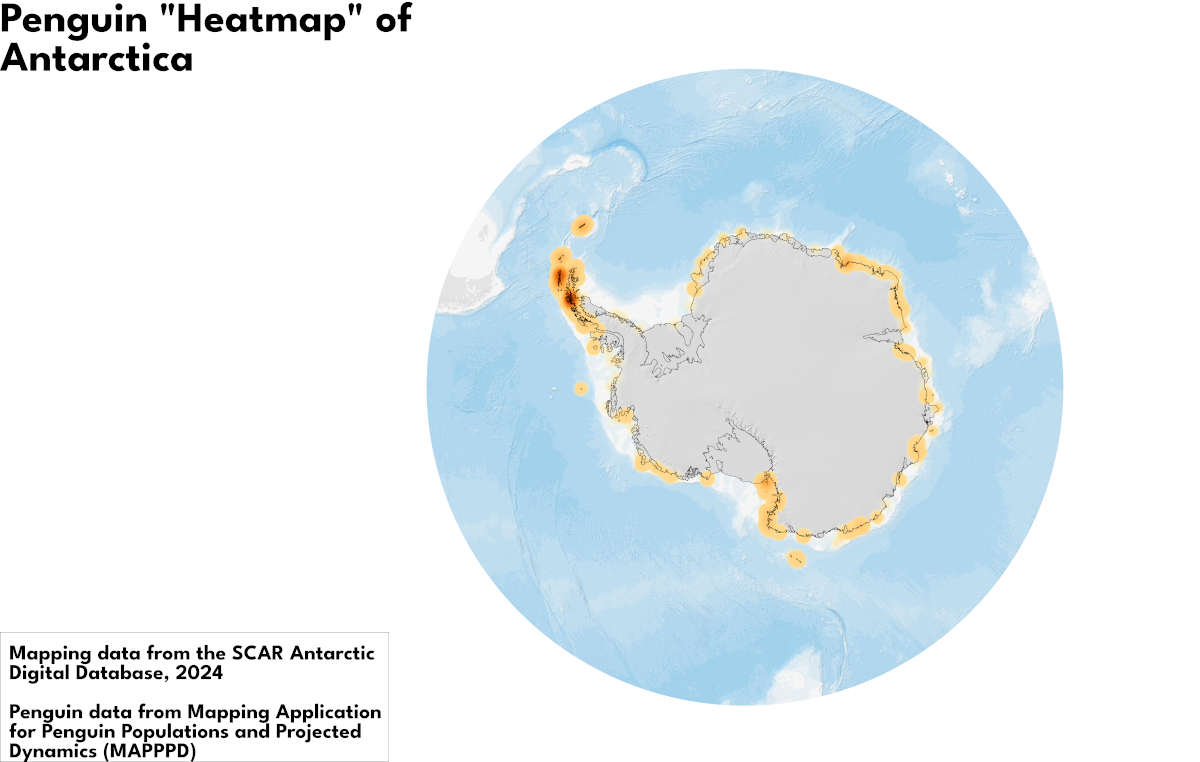
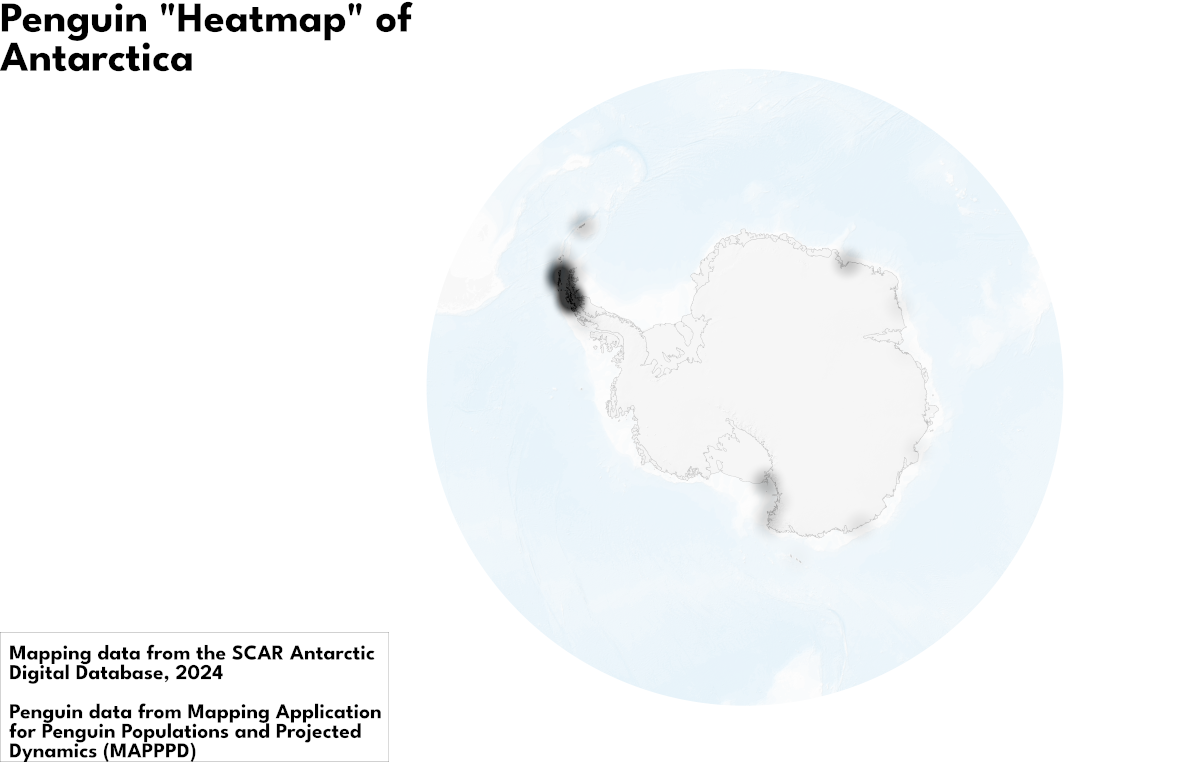
Updated 30DayMapChallenge 2024 - Day 12

diff --git a/articles/30DayMapChallenge-Day12-2024/index.html b/articles/30DayMapChallenge-Day12-2024/index.html
@@ -8,7 +8,7 @@
 
 
 	<!-- Open Graph Protocol Metadata -->
-	<meta property="og:title" content="Day 11 of the 2024 30DayMapChallenge"/>
+	<meta property="og:title" content="Day 12 of the 2024 30DayMapChallenge"/>
 	<meta property="og:site_name" content="Alexander's Articles"/>
 	<meta property="og:type" content="article"/>
 	<meta property="og:locale" content="en_US"/>
@@ -38,8 +38,8 @@
       	<p id="fps">0fps</p>
 	<div id="hero">
 		<div id="content">
-		<h1></h1></a>
-		<h2>November 10th 2024</h2>
+		<h1 hidden="true"></h1>
+		<h2>November 12th 2024</h2>
 		<h2 id="subtitle" hidden="true">[Development In Progress]</h2>
 		<p>It's day 12 of the 30DayMapChallenge, and today's theme is "Time and Space", although in all honestly, it shoud be lack of time since I confused the arctic with the antarctic yesterday and didn't have time to create a completely new vizualization, luckily since the data penguine data i had collected yesterday it was time series it was straightforwards enough to convert it into an animation 🎉</p>
 
